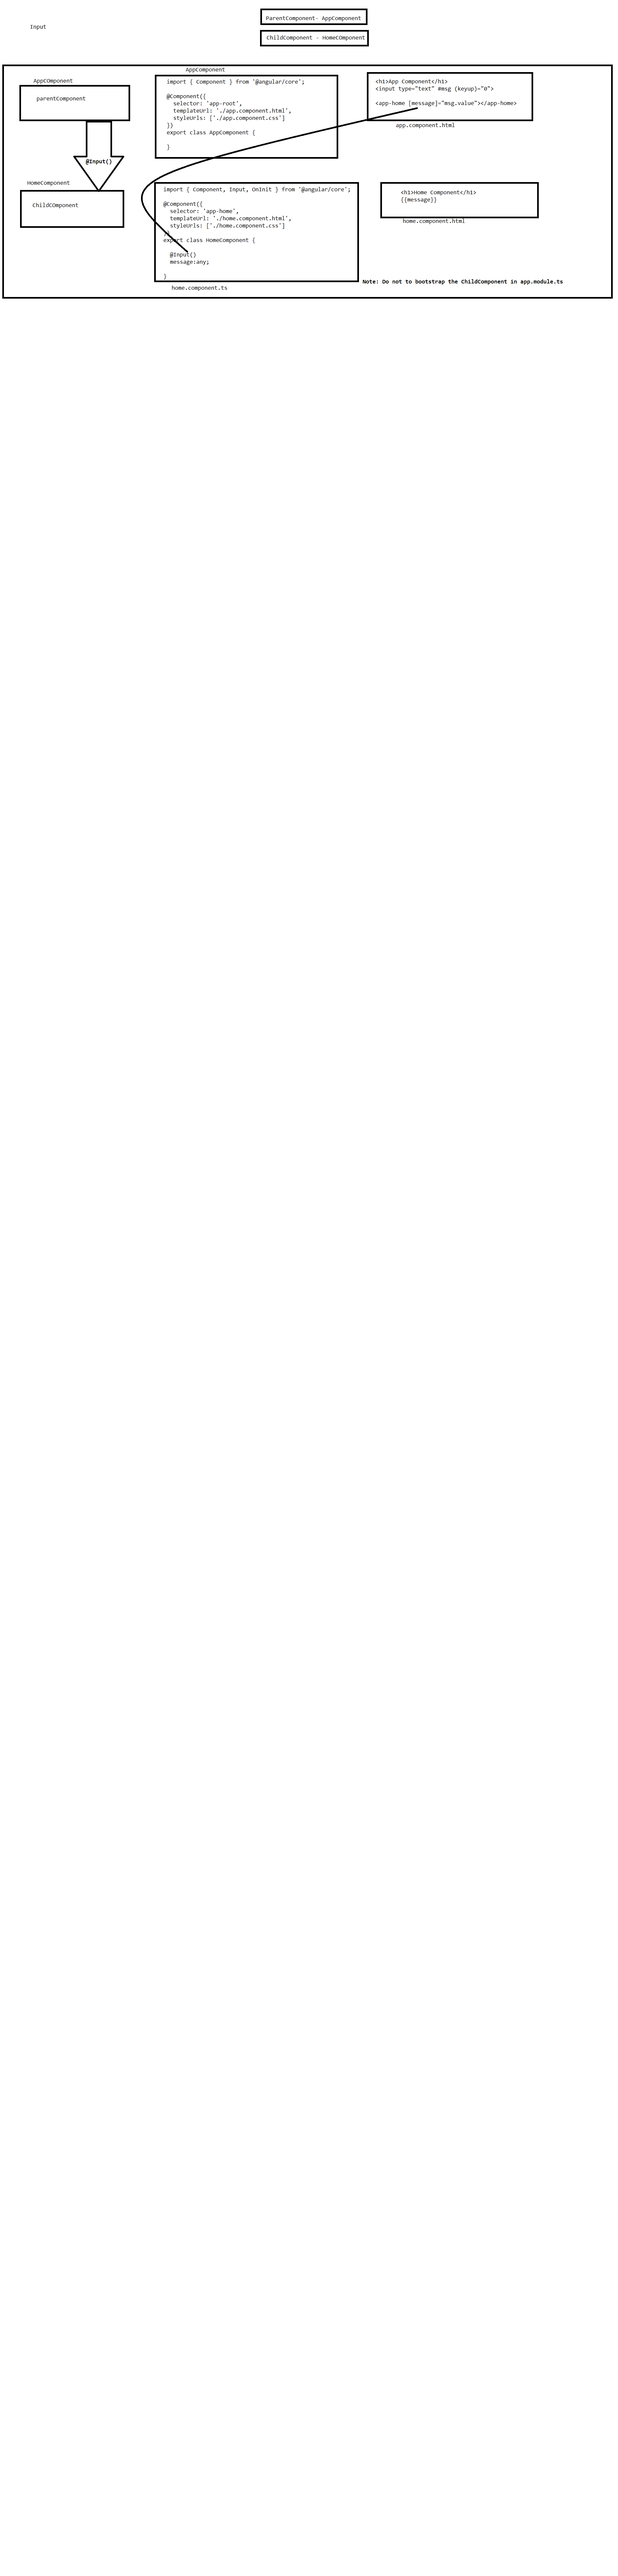
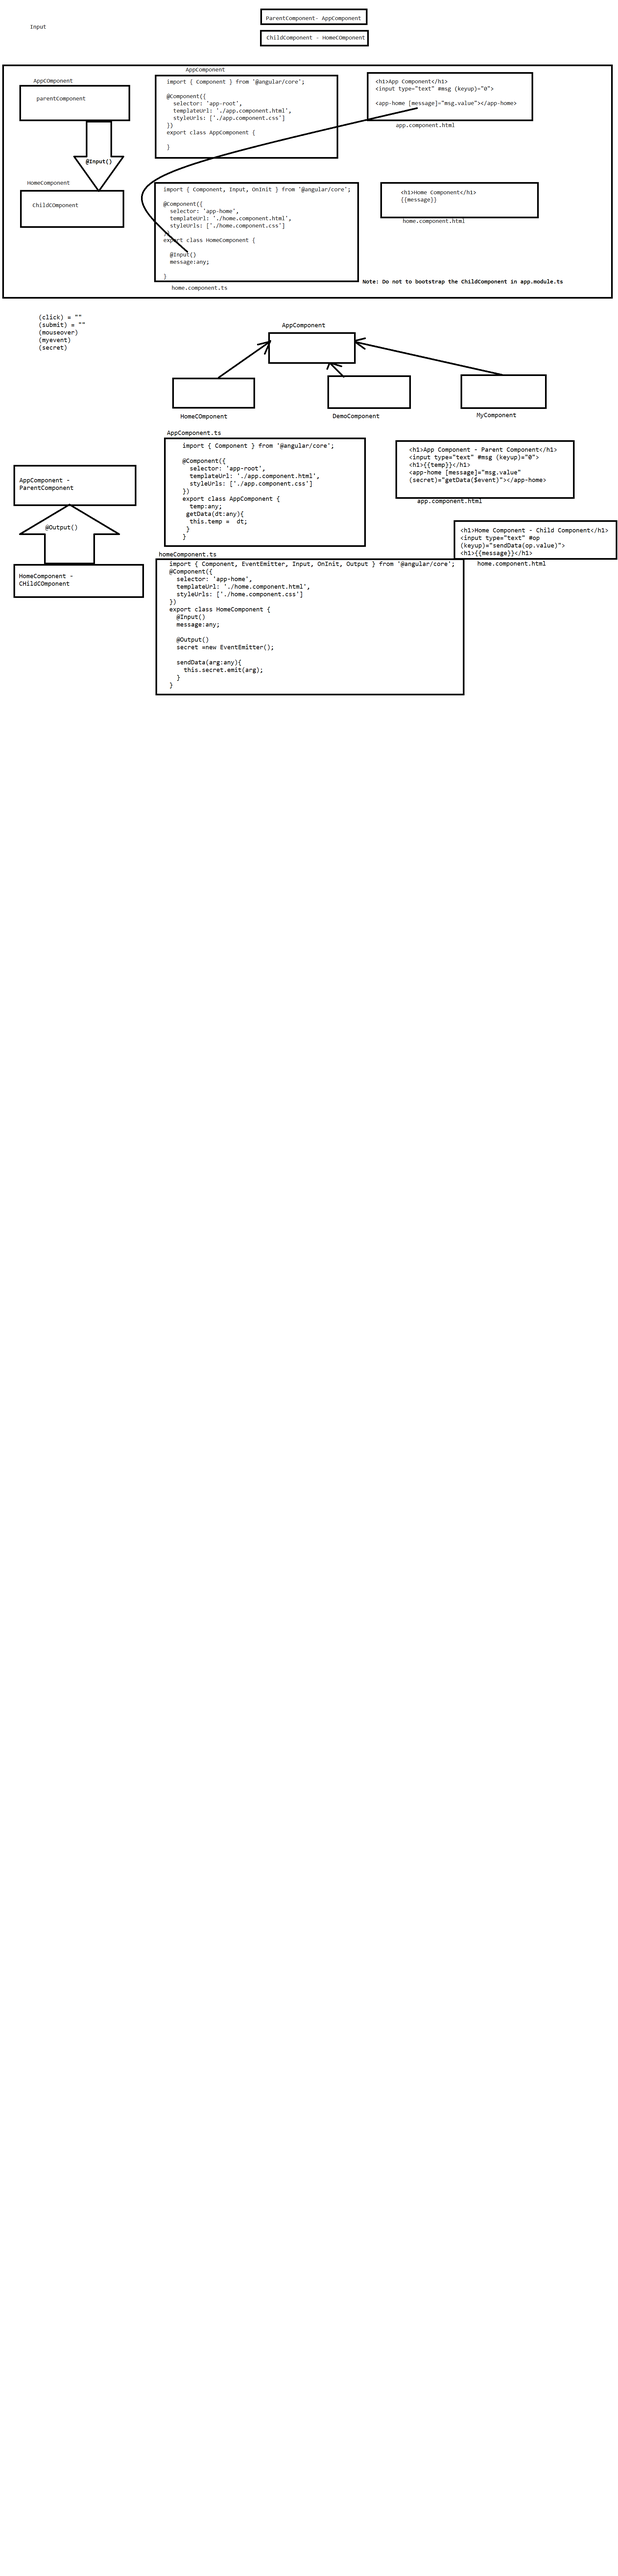
Outputs

diff --git a/AngularOutput/app/app.component.spec.ts b/AngularOutput/app/app.component.spec.ts
@@ -1,0 +1,31 @@
+import { TestBed } from '@angular/core/testing';
+import { AppComponent } from './app.component';
+
+describe('AppComponent', () => {
+  beforeEach(async () => {
+    await TestBed.configureTestingModule({
+      declarations: [
+        AppComponent
+      ],
+    }).compileComponents();
+  });
+
+  it('should create the app', () => {
+    const fixture = TestBed.createComponent(AppComponent);
+    const app = fixture.componentInstance;
+    expect(app).toBeTruthy();
+  });
+
+  it(`should have as title 'demoapp'`, () => {
+    const fixture = TestBed.createComponent(AppComponent);
+    const app = fixture.componentInstance;
+    expect(app.title).toEqual('demoapp');
+  });
+
+  it('should render title', () => {
+    const fixture = TestBed.createComponent(AppComponent);
+    fixture.detectChanges();
+    const compiled = fixture.nativeElement as HTMLElement;
+    expect(compiled.querySelector('.content span')?.textContent).toContain('demoapp app is running!');
+  });
+});

diff --git a/AngularOutput/app/home/home.component.spec.ts b/AngularOutput/app/home/home.component.spec.ts
@@ -1,0 +1,25 @@
+import { ComponentFixture, TestBed } from '@angular/core/testing';
+
+import { HomeComponent } from './home.component';
+
+describe('HomeComponent', () => {
+  let component: HomeComponent;
+  let fixture: ComponentFixture<HomeComponent>;
+
+  beforeEach(async () => {
+    await TestBed.configureTestingModule({
+      declarations: [ HomeComponent ]
+    })
+    .compileComponents();
+  });
+
+  beforeEach(() => {
+    fixture = TestBed.createComponent(HomeComponent);
+    component = fixture.componentInstance;
+    fixture.detectChanges();
+  });
+
+  it('should create', () => {
+    expect(component).toBeTruthy();
+  });
+});

diff --git a/AngularOutput/app/MyComponent.ts b/AngularOutput/app/MyComponent.ts
@@ -1,0 +1,26 @@
+import { Component } from "@angular/core";
+
+@Component({
+    selector:'my-comp',
+    templateUrl:'./mycomponent.html'
+})
+export class MyComponent{
+
+   result:number = 0;
+
+    addition(a:any,b:any){
+        this.result = Number(a)+Number(b);
+   }
+
+   subtraction(a:any,b:any){
+        this.result =  Number(a)-Number(b);
+   }
+
+   divide(a:any,b:any){
+    this.result =  Number(a)/Number(b);
+   }
+
+   multply(a:any,b:any){
+    this.result =  Number(a)*Number(b);
+   }
+}

diff --git a/AngularOutput/app/app.module.ts b/AngularOutput/app/app.module.ts
@@ -1,0 +1,18 @@
+import { NgModule } from '@angular/core';
+import { BrowserModule } from '@angular/platform-browser';
+
+import { AppComponent } from './app.component';
+import { MyComponent } from './MyComponent';
+import { HomeComponent } from './home/home.component';
+
+@NgModule({
+  declarations: [
+    AppComponent , MyComponent, HomeComponent
+  ],
+  imports: [
+    BrowserModule
+  ],
+  providers: [],
+  bootstrap: [AppComponent]
+})
+export class AppModule { }

diff --git a/AngularOutput/app/home/home.component.ts b/AngularOutput/app/home/home.component.ts
@@ -1,0 +1,18 @@
+import { Component, EventEmitter, Input, OnInit, Output } from '@angular/core';
+
+@Component({
+  selector: 'app-home',
+  templateUrl: './home.component.html',
+  styleUrls: ['./home.component.css']
+})
+export class HomeComponent {
+  @Input()
+  message:any;
+  
+  @Output()
+  secret =new EventEmitter();
+  
+  sendData(arg:any){
+    this.secret.emit(arg);
+  }
+}

diff --git a/AngularOutput/app/app.component.ts b/AngularOutput/app/app.component.ts
@@ -1,0 +1,15 @@
+import { Component } from '@angular/core';
+
+@Component({
+  selector: 'app-root',
+  templateUrl: './app.component.html',
+  styleUrls: ['./app.component.css']
+})
+export class AppComponent {
+
+  temp:any;
+getData(dt:any){
+ this.temp =  dt;
+}
+
+}

diff --git a/AngularOutput/app/app.component.html b/AngularOutput/app/app.component.html
@@ -1,0 +1,4 @@
+<h1>App Component - Parent Component</h1>
+<input type="text" #msg (keyup)="0"> 
+<h1>{{temp}}</h1>
+<app-home [message]="msg.value" (secret)="getData($event)"></app-home>

diff --git a/AngularOutput/app/home/home.component.html b/AngularOutput/app/home/home.component.html
@@ -1,0 +1,3 @@
+<h1>Home Component - Child Component</h1>
+<input type="text" #op (keyup)="sendData(op.value)">
+<h1>{{message}}</h1>

diff --git a/AngularOutput/app/mycomponent.html b/AngularOutput/app/mycomponent.html
@@ -1,0 +1,1 @@
+<h1>My Component</h1>
